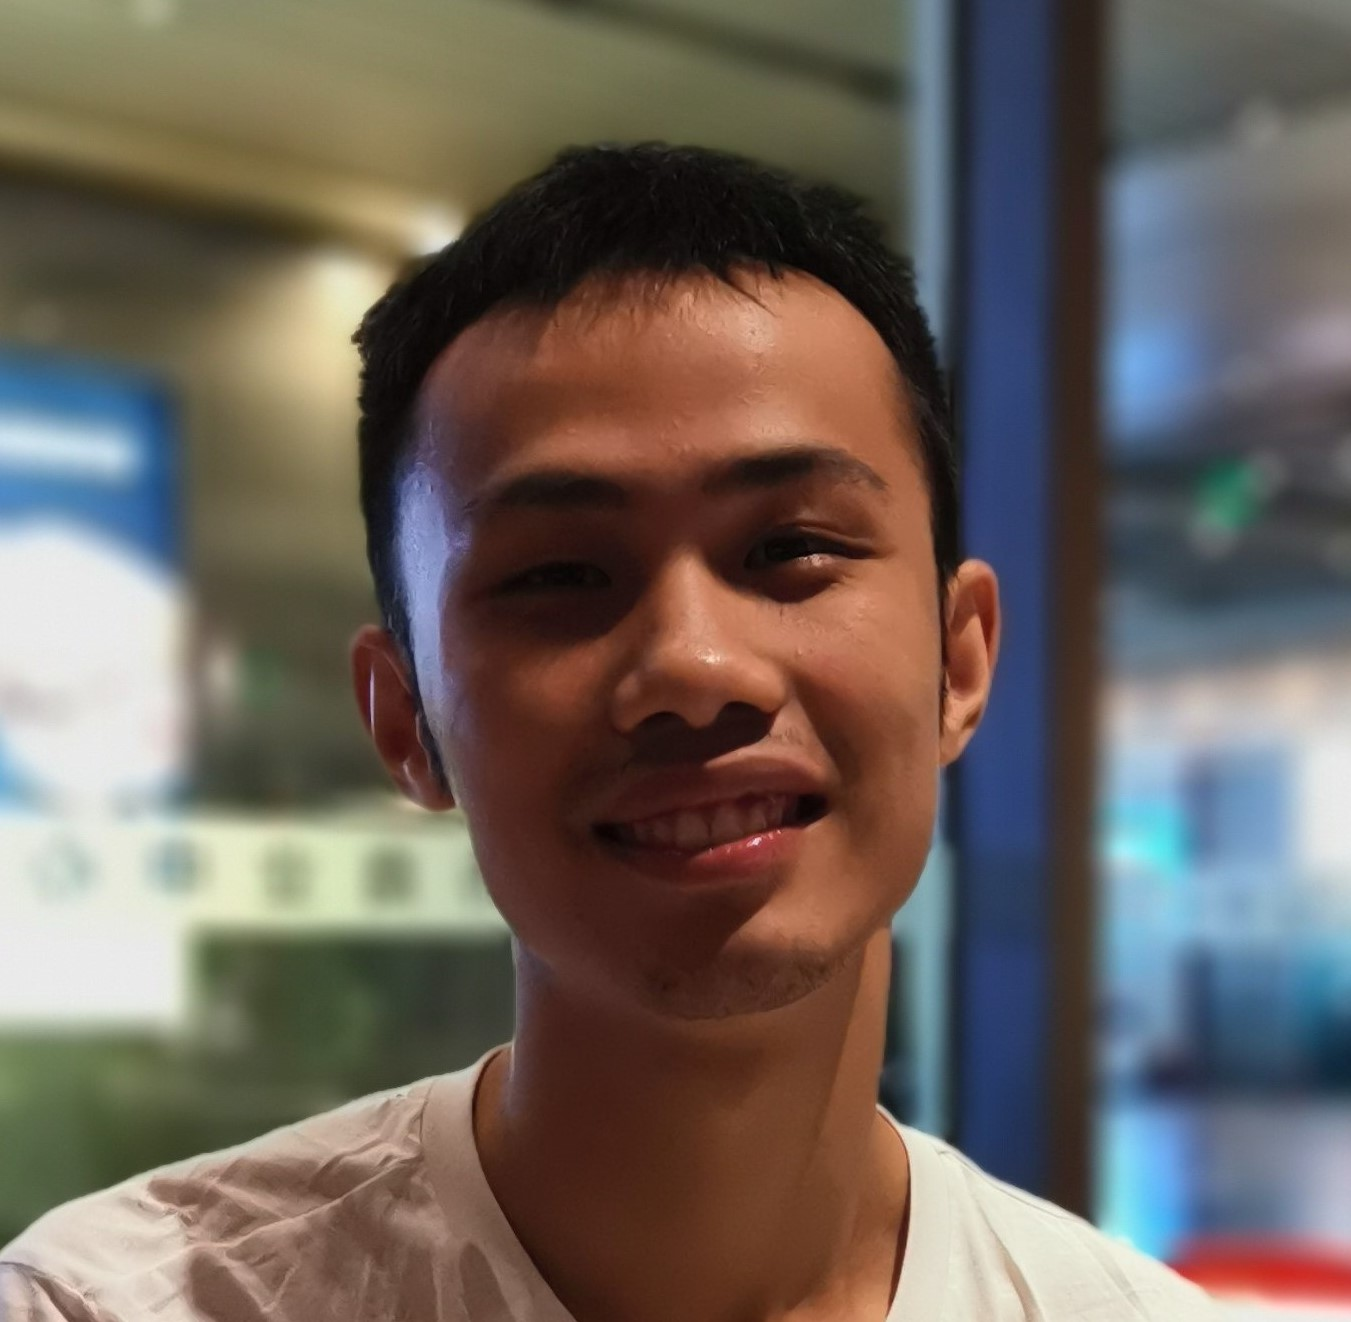
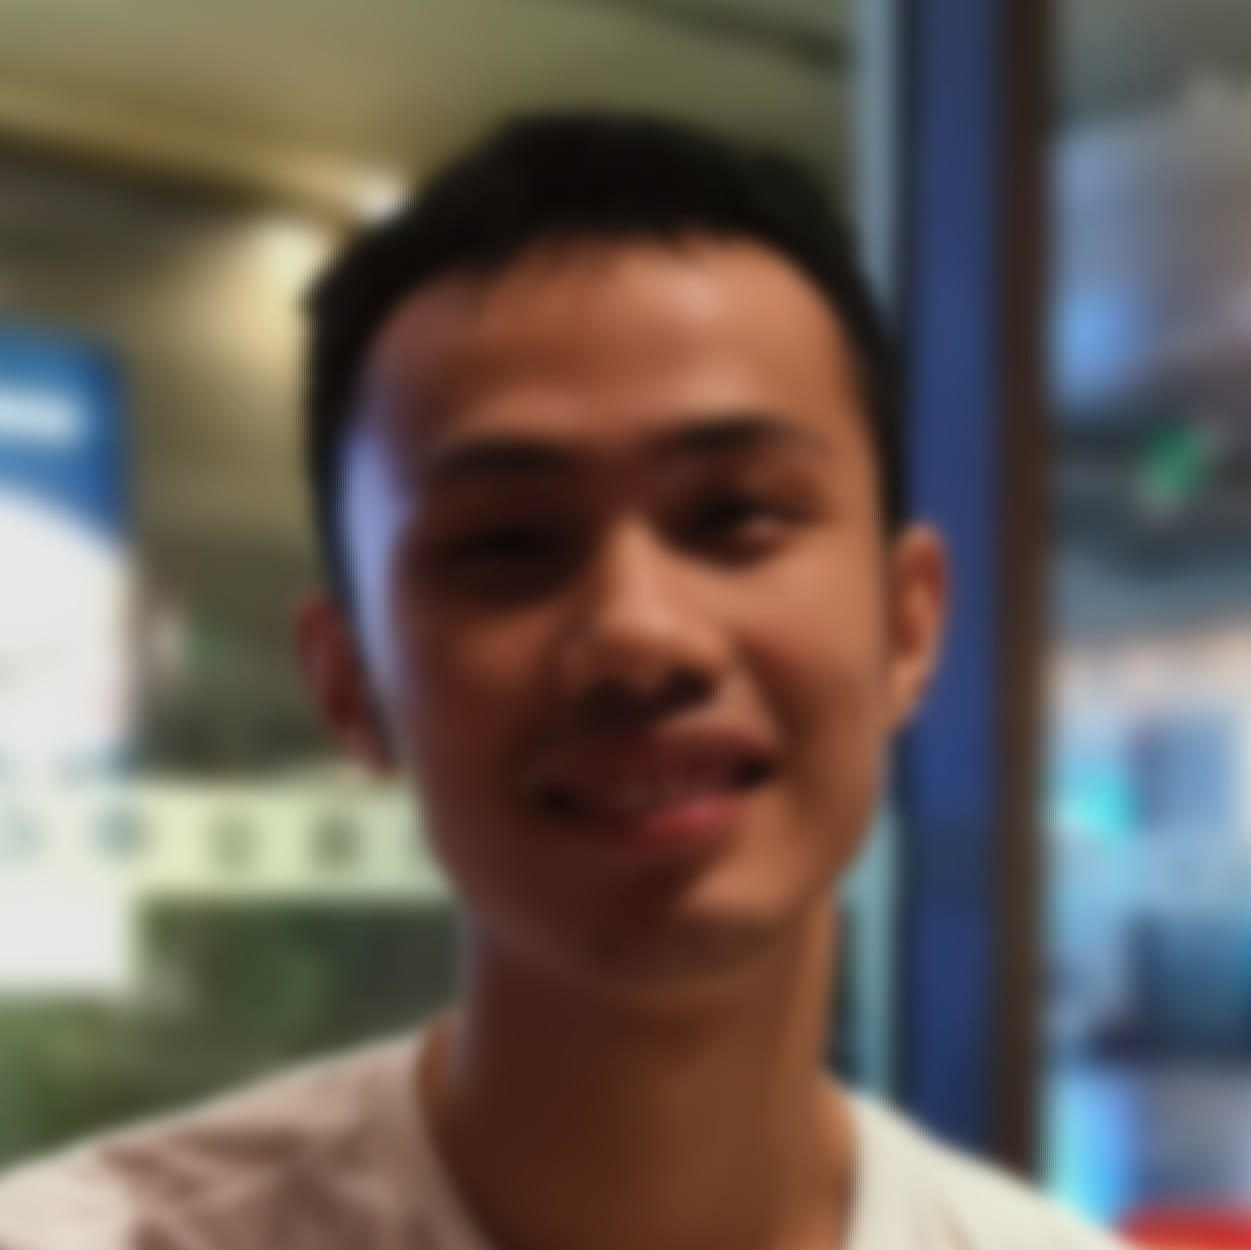
build

diff --git a/publication/chen2020optimal/index.html b/publication/chen2020optimal/index.html
@@ -1031,7 +1031,7 @@
   <div class="media author-card content-widget-hr">
     
       
-      <a href="https://wenlin-chen.github.io/"><img class="avatar mr-3 avatar-circle" src="/authors/admin/avatar_hu8e31091a3e94b300feabfbdcc6c47573_302240_270x270_fill_q75_lanczos_center.jpg" alt="Wenlin Chen"></a>
+      <a href="https://wenlin-chen.github.io/"><img class="avatar mr-3 avatar-circle" src="/authors/admin/avatar_hu27f7dc34c9db8fd2b063f3fba6be9864_216943_270x270_fill_q75_lanczos_center.jpg" alt="Wenlin Chen"></a>
     
 
     <div class="media-body">

diff --git a/publication/webb2020ensemble/index.html b/publication/webb2020ensemble/index.html
@@ -1061,7 +1061,7 @@
   <div class="media author-card content-widget-hr">
     
       
-      <a href="https://wenlin-chen.github.io/"><img class="avatar mr-3 avatar-circle" src="/authors/admin/avatar_hu8e31091a3e94b300feabfbdcc6c47573_302240_270x270_fill_q75_lanczos_center.jpg" alt="Wenlin Chen"></a>
+      <a href="https://wenlin-chen.github.io/"><img class="avatar mr-3 avatar-circle" src="/authors/admin/avatar_hu27f7dc34c9db8fd2b063f3fba6be9864_216943_270x270_fill_q75_lanczos_center.jpg" alt="Wenlin Chen"></a>
     
 
     <div class="media-body">

diff --git a/index.html b/index.html
@@ -806,7 +806,7 @@
       
       <img class="avatar avatar-circle"
            width="270" height="270"
-           src="/authors/admin/avatar_hu8e31091a3e94b300feabfbdcc6c47573_302240_270x270_fill_q75_lanczos_center.jpg" alt="Wenlin Chen">
+           src="/authors/admin/avatar_hu27f7dc34c9db8fd2b063f3fba6be9864_216943_270x270_fill_q75_lanczos_center.jpg" alt="Wenlin Chen">
       
 
       <div class="portrait-title">
